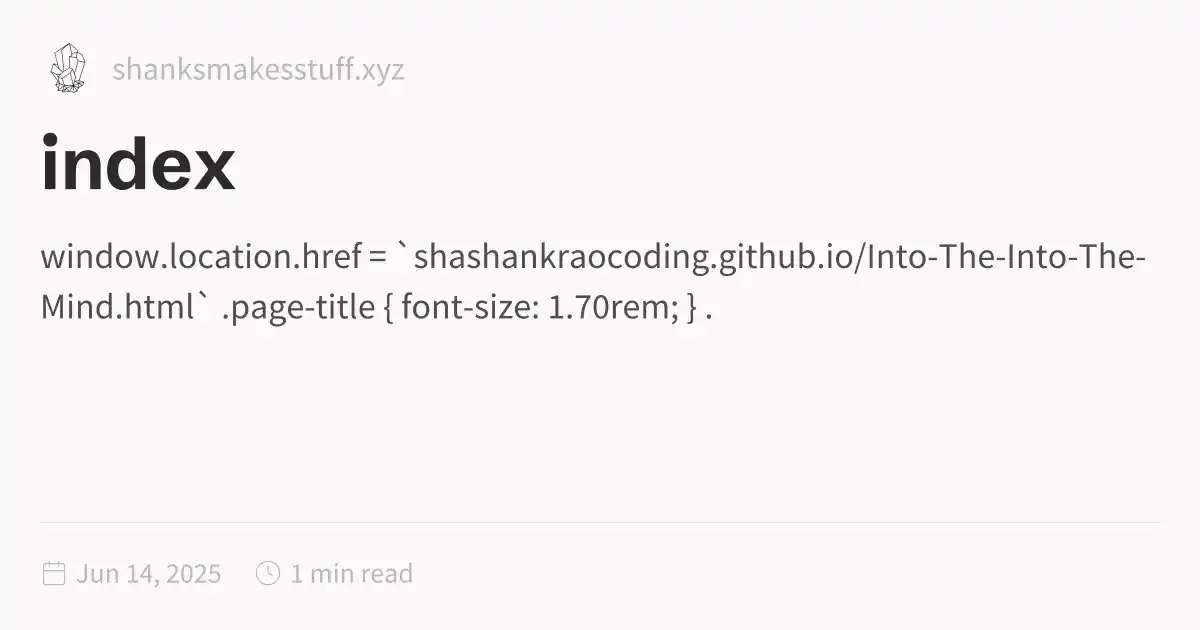
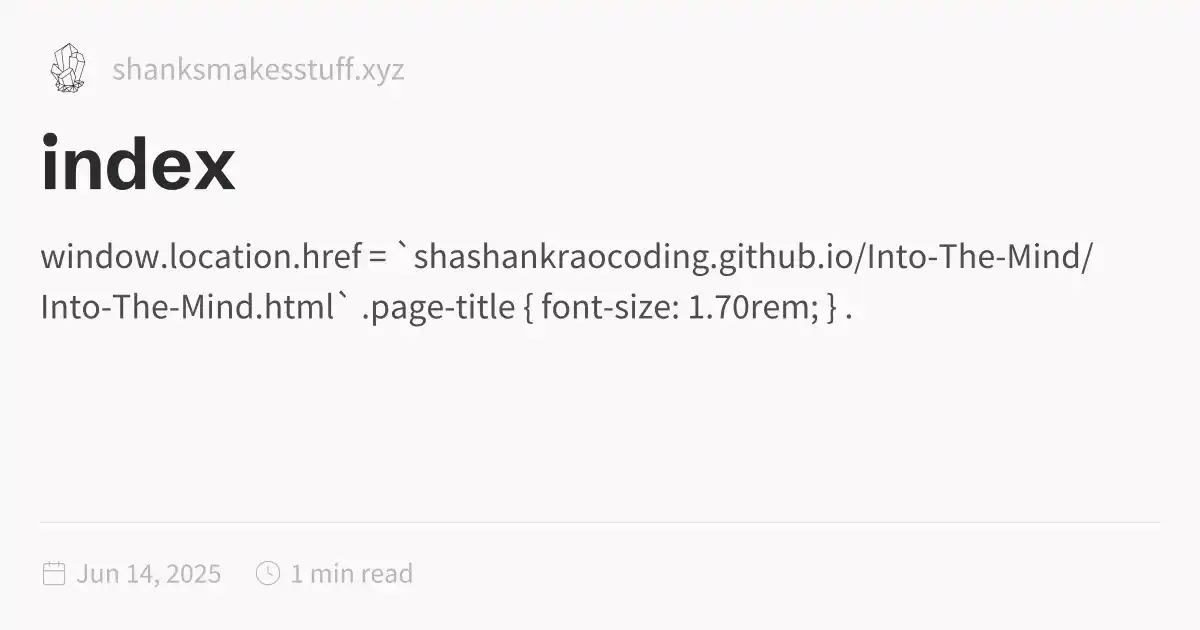
2025-06-14_2243

Changed region(s): [[0.0308, 0.4524, 0.7092, 0.5127], [0.8325, 0.3619, 0.9558, 0.4222]]

diff --git a/index.html b/index.html
@@ -1,5 +1,5 @@
 <!DOCTYPE html>
-<html lang="en"><head><title>index</title><meta charset="utf-8"/><link rel="preconnect" href="https://fonts.googleapis.com"/><link rel="preconnect" href="https://fonts.gstatic.com"/><link rel="stylesheet" href="https://fonts.googleapis.com/css2?family=Schibsted Grotesk:wght@400;700&amp;family=Source Sans Pro:ital,wght@0,400;0,600;1,400;1,600&amp;family=IBM Plex Mono:wght@400;600&amp;display=swap"/><link rel="preconnect" href="https://cdnjs.cloudflare.com" crossorigin="anonymous"/><meta name="viewport" content="width=device-width, initial-scale=1.0"/><meta name="og:site_name" content="ShanksMakesStuff"/><meta property="og:title" content="index"/><meta property="og:type" content="website"/><meta name="twitter:card" content="summary_large_image"/><meta name="twitter:title" content="index"/><meta name="twitter:description" content="window.location.href = `shashankraocoding.github.io/Into-The-Into-The-Mind.html` .page-title { font-size: 1.70rem; } ."/><meta property="og:description" content="window.location.href = `shashankraocoding.github.io/Into-The-Into-The-Mind.html` .page-title { font-size: 1.70rem; } ."/><meta property="og:image:alt" content="window.location.href = `shashankraocoding.github.io/Into-The-Into-The-Mind.html` .page-title { font-size: 1.70rem; } ."/><meta property="twitter:domain" content="shanksmakesstuff.xyz"/><meta property="og:url" content="https://shanksmakesstuff.xyz/index"/><meta property="twitter:url" content="https://shanksmakesstuff.xyz/index"/><link rel="icon" href="./static/icon.png"/><meta name="description" content="window.location.href = `shashankraocoding.github.io/Into-The-Into-The-Mind.html` .page-title { font-size: 1.70rem; } ."/><meta name="generator" content="Quartz"/><link href="./index.css" rel="stylesheet" type="text/css" spa-preserve/><style>.expand-button {
+<html lang="en"><head><title>index</title><meta charset="utf-8"/><link rel="preconnect" href="https://fonts.googleapis.com"/><link rel="preconnect" href="https://fonts.gstatic.com"/><link rel="stylesheet" href="https://fonts.googleapis.com/css2?family=Schibsted Grotesk:wght@400;700&amp;family=Source Sans Pro:ital,wght@0,400;0,600;1,400;1,600&amp;family=IBM Plex Mono:wght@400;600&amp;display=swap"/><link rel="preconnect" href="https://cdnjs.cloudflare.com" crossorigin="anonymous"/><meta name="viewport" content="width=device-width, initial-scale=1.0"/><meta name="og:site_name" content="ShanksMakesStuff"/><meta property="og:title" content="index"/><meta property="og:type" content="website"/><meta name="twitter:card" content="summary_large_image"/><meta name="twitter:title" content="index"/><meta name="twitter:description" content="window.location.href = `shashankraocoding.github.io/Into-The-Mind/Into-The-Mind.html` .page-title { font-size: 1.70rem; } ."/><meta property="og:description" content="window.location.href = `shashankraocoding.github.io/Into-The-Mind/Into-The-Mind.html` .page-title { font-size: 1.70rem; } ."/><meta property="og:image:alt" content="window.location.href = `shashankraocoding.github.io/Into-The-Mind/Into-The-Mind.html` .page-title { font-size: 1.70rem; } ."/><meta property="twitter:domain" content="shanksmakesstuff.xyz"/><meta property="og:url" content="https://shanksmakesstuff.xyz/index"/><meta property="twitter:url" content="https://shanksmakesstuff.xyz/index"/><link rel="icon" href="./static/icon.png"/><meta name="description" content="window.location.href = `shashankraocoding.github.io/Into-The-Mind/Into-The-Mind.html` .page-title { font-size: 1.70rem; } ."/><meta name="generator" content="Quartz"/><link href="./index.css" rel="stylesheet" type="text/css" spa-preserve/><style>.expand-button {
   position: absolute;
   display: flex;
   float: right;
@@ -116,9 +116,9 @@ pre:hover > .expand-button {
   padding: 0 12px;
   font-size: 14px;
 }
[2 lines of base64/hex data omitted]
 	<script> 
-		window.location.href = `https://shashankraocoding.github.io/Into-The-Into-The-Mind.html` 
+		window.location.href = `https://shashankraocoding.github.io/Into-The-Mind/Into-The-Mind.html` 
 	</script> 
  
  
